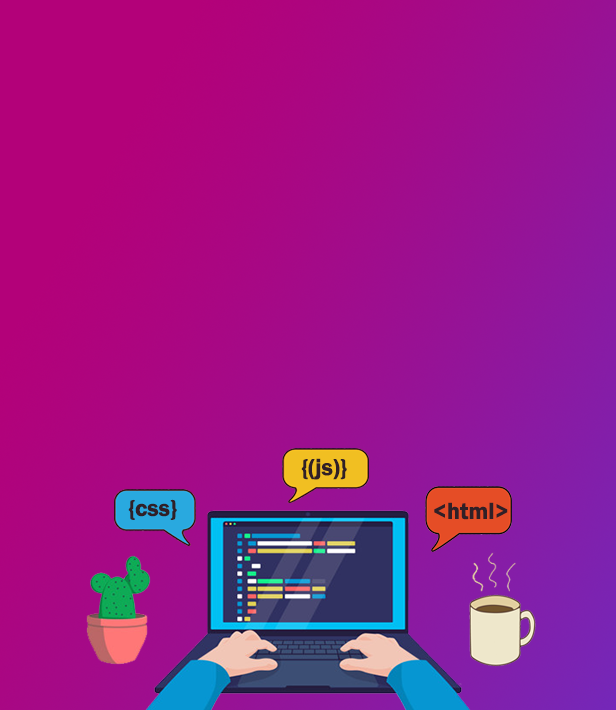
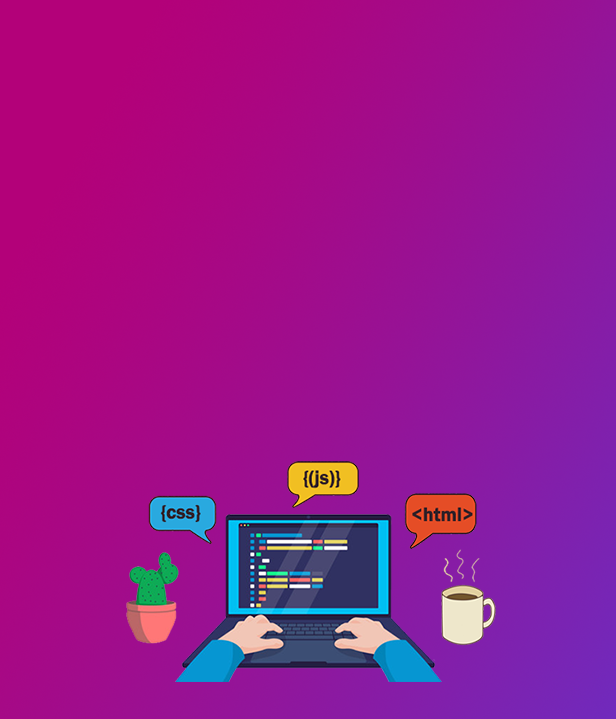
arrumando parallax

Changed region(s): [[0.1234, 0.6197, 0.8945, 1.0]]

diff --git a/index.html b/index.html
@@ -113,8 +113,8 @@
                 </form>
             </div>
         </nav>
-        <!-- PARALLAX HEADER IMG PARA TAMANHOS MD, LG E XL -->
-        <div class="jumbotron paral paralsec d-none d-sm-none d-md-block d-lg-block d-xl-block">
+        <!-- PARALLAX HEADER IMG PARA TAMANHOS LG E XL -->
+        <div class="jumbotron paral paralsec d-none d-sm-none d-md-none d-lg-block d-xl-block">
             <h1 class="display-3">BEM-VINDO AO PROGRAM WEB</h1>
             <p class="lead">Projeto desenvolvido por uma iniciante para outro iniciante</p>
             <p class="lead">
@@ -123,6 +123,14 @@
         </div>
         <!-- PARALLAC IMG PARA TAMANHOS XM E SM -->
         <div class="jumbotron paral paralsec1 d-block d-sm-block d-md-none align-items-center justify-content-center">
+            <h1 class="display-3 text-center">BEM-VINDO AO PROGRAM WEB</h1>
+            <p class="lead text-center">Projeto desenvolvido por uma iniciante para outro iniciante</p>
+            <p class="lead text-center">
+                <a class="btn btn-info btn-danger btn-danger" href="#" role="button">SAIBA MAIS</a>
+            </p>
+        </div>
+        <!-- PARALLAC IMG PARA TAMANHO MD -->
+        <div class="jumbotron paral paralsec2 d-none d-sm-none d-md-block d-lg-none align-items-center justify-content-center">
             <h1 class="display-3 text-center">BEM-VINDO AO PROGRAM WEB</h1>
             <p class="lead text-center">Projeto desenvolvido por uma iniciante para outro iniciante</p>
             <p class="lead text-center">

diff --git a/custom/scss/custom.scss b/custom/scss/custom.scss
@@ -11,7 +11,6 @@ $theme-colors: (
 // PARALLAX HEADER
 .paral {
     min-height: 550px;
-    background-attachment: fixed;
     background-size: cover;
     background-position: 50% 50%;
 }
@@ -45,6 +44,11 @@ $theme-colors: (
 // PARALLAX MOBILE IMG #2
 .paralsec1 {
     background-image: url(../../img/parallax/template-mobile.png);
+}
+
+// PARALLAX MD IMG #3
+.paralsec2 {
+    background-image: url(../../img/parallax/template-md.png);
 }
 
 // PARALLAX JUMBOTROM

diff --git a/custom/css/custom.css b/custom/css/custom.css
@@ -1,7 +1,6 @@
 @charset "UTF-8";
 .paral {
   min-height: 550px;
-  background-attachment: fixed;
   background-size: cover;
   background-position: 50% 50%;
 }
@@ -31,6 +30,10 @@
 
 .paralsec1 {
   background-image: url(../../img/parallax/template-mobile.png);
+}
+
+.paralsec2 {
+  background-image: url(../../img/parallax/template-md.png);
 }
 
 .jumbotron {
